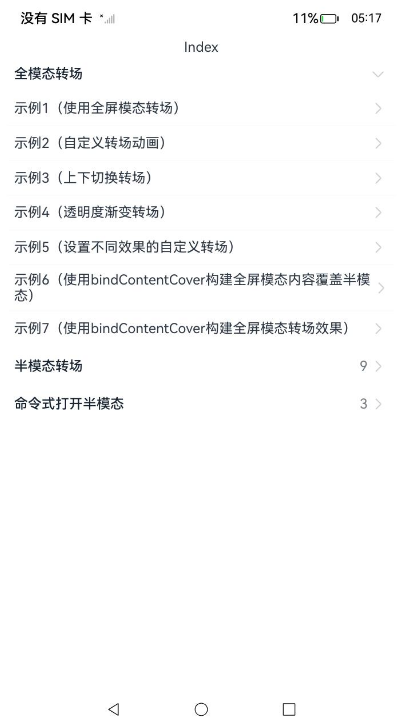
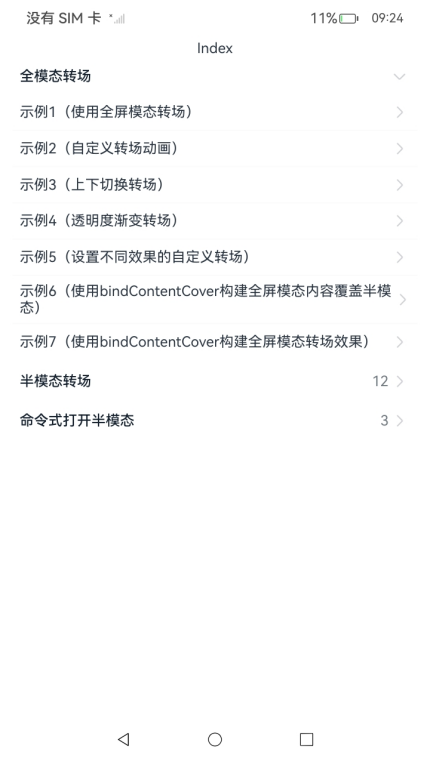
IssueNo: #7013: docs检视意见修改 Description:  docs检视意见修改 Sig: SIG_Sample Feature or Bugfix: Feature Binary Source: No

diff --git a/code/DocsSample/ArkUISample/BindSheet/README_zh.md b/code/DocsSample/ArkUISample/BindSheet/README_zh.md
@@ -33,47 +33,51 @@ entry/src/main/ets/
 |---pages
 |   |---bindContentCover                       // 全模态转场 
 |   |   |---template1
-|   |   |   |---Index.ets
+|   |   |   |---ModalTransitionExample.ets
 |   |   |---template2
-|   |   |   |---Index.ets
+|   |   |   |---ModalTransitionExample2.ets
 |   |   |---template3
-|   |   |   |---Index.ets
+|   |   |   |---ModalTransitionExample3.ets
 |   |   |---template4
-|   |   |   |---Index.ets
+|   |   |   |---ModalTransitionExample4.ets
 |   |   |---template5
-|   |   |   |---Index.ets
+|   |   |   |---ModalTransitionExample5.ets
 |   |   |---template6
-|   |   |   |---Index.ets
+|   |   |   |---BindContentCoverDemo.ets
 |   |   |---template7
-|   |   |   |---Index.ets
+|   |   |   |---BindContentCoverDemo.ets
 |   |---bindSheet                      // 半模态转场
 |   |   |---template1
-|   |   |   |---Index.ets
+|   |   |   |---SheetTransitionExample1.ets
 |   |   |---template2
-|   |   |   |---Index.ets
+|   |   |   |---SheetTransitionExample2.ets
 |   |   |---template3
-|   |   |   |---Index.ets
+|   |   |   |---SheetTransitionExample3.ets
 |   |   |---template4
-|   |   |   |---Index.ets
+|   |   |   |---bindSheetExample4.ets
 |   |   |---template5
-|   |   |   |---Index.ets
+|   |   |   |---bindSheetExample5.ets
 |   |   |---template6
-|   |   |   |---Index.ets
+|   |   |   |---ListenKeyboardHeightChange.ets
 |   |   |---template7
-|   |   |   |---Index.ets
+|   |   |   |---SheetTransitionExample7.ets
 |   |   |---template8
-|   |   |   |---Index.ets
+|   |   |   |---SheetSideExample8.ets
 |   |   |---template9
-|   |   |   |---Index.ets
+|   |   |   |---BindSheetDemo9.ets
 |   |   |---template10
-|   |   |   |---Index.ets
+|   |   |   |---SheetDemo.ets
+|   |   |---template11
+|   |   |   |---OnWillDismiss_Dismiss.ets
+|   |   |---template12
+|   |   |   |---SheetTransitionExample.ets
 |   |---bindSheetCmd                             // 命令式打开半模态
 |   |   |---template1
-|   |   |   |---Index.ets
+|   |   |   |---UIContextBindSheet.ets
 |   |   |---template2
-|   |   |   |---Index.ets
+|   |   |   |---UIContextBindSheet.ets
 |   |   |---template3
-|   |   |   |---Index.ets
+|   |   |   |---UIContextBindSheet.ets
 |---pages
 |   |---Index.ets                       // 应用主页面
 entry/src/ohosTest/
@@ -84,6 +88,17 @@ entry/src/ohosTest/
 |   |   |---OpenSheet.test.ets                            // 命令式打开半模态示例代码测试代码
 
 ```
+
+### 具体实现
+
+1. 绑定半模态页面：
+
+    * 基础半模态页面（带生命周期监听）。源码参考[SheetDemo.ets](https://gitcode.com/openharmony/applications_app_samples/blob/master/code/DocsSample/ArkUISample/BindSheet/entry/src/main/ets/pages/bindSheet/template10/SheetDemo.ets)
+
+    * 嵌套滚动 + 二次确认关闭（防误关）。源码参考[OnWillDismiss_Dismiss.ets](https://gitcode.com/openharmony/applications_app_samples/blob/master/code/DocsSample/ArkUISample/BindSheet/entry/src/main/ets/pages/bindSheet/template11/OnWillDismiss_Dismiss.ets)
+
+    * 避让中轴。源码参考[SheetTransitionExample.ets](https://gitcode.com/openharmony/applications_app_samples/blob/master/code/DocsSample/ArkUISample/BindSheet/entry/src/main/ets/pages/bindSheet/template12/SheetTransitionExample.ets)
+
 
 ### 相关权限
 

diff --git a/code/DocsSample/ArkUISample/ComponentSnapshot/README_zh.md b/code/DocsSample/ArkUISample/ComponentSnapshot/README_zh.md
@@ -54,7 +54,7 @@
 
 ### 具体实现
 
-1. 实现长内容滚动截图（滚动 + 拼接。源码参考[ScrollSnapshot.ets](https://gitcode.com/openharmony/applications_app_samples/blob/master/code/DocsSample/ArkUISample/ComponentSnapshot/entry/src/main/ets/view/ScrollSnapshot.ets)
+1. 实现长内容滚动截图（滚动 + 拼接）。源码参考[ScrollSnapshot.ets](https://gitcode.com/openharmony/applications_app_samples/blob/master/code/DocsSample/ArkUISample/ComponentSnapshot/entry/src/main/ets/view/ScrollSnapshot.ets)
 
     * 添加滚动控制器及事件监听，为了能够模拟滚动，以及监听组件滚动的具体offset，需要为List（此处以列表为例）组件添加滚动控制器以及滚动监听。
 
